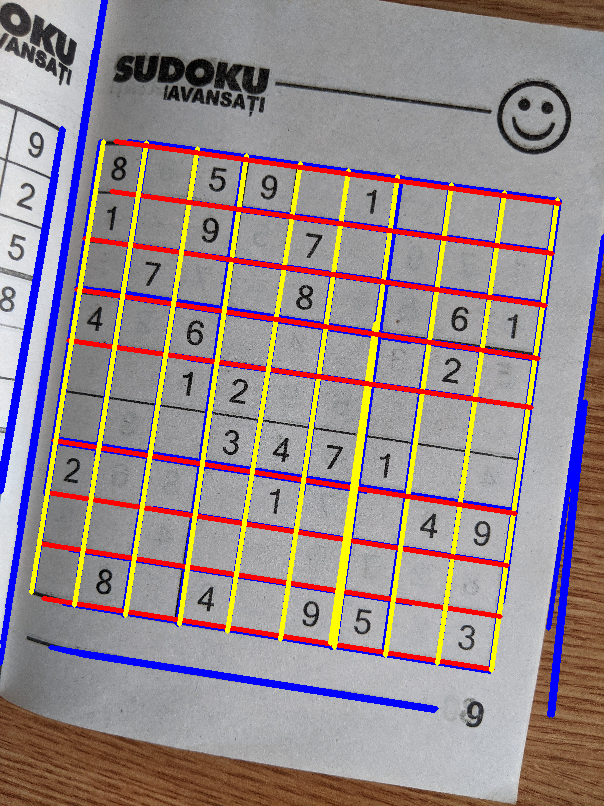
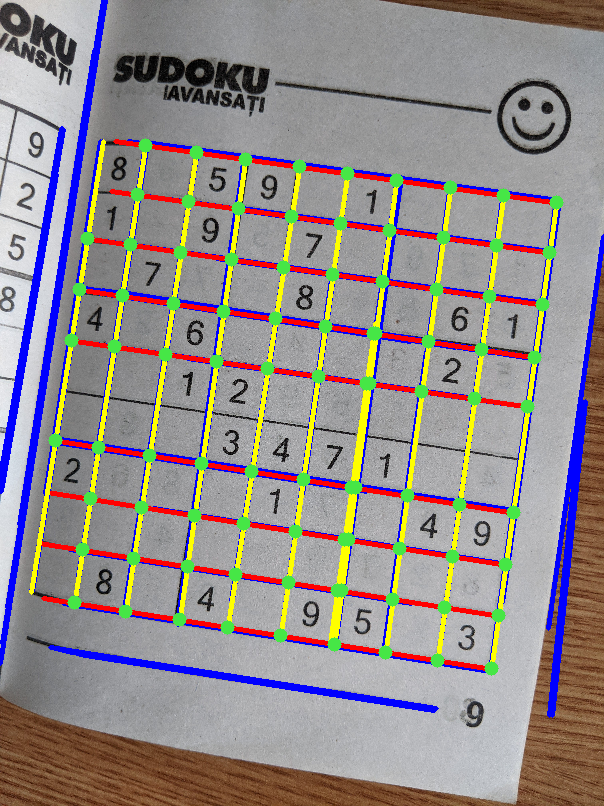
Add intersection points of perpendicular lines

diff --git a/sudoku.py b/sudoku.py
@@ -132,6 +132,7 @@ class Sudoku:
         # Remove lines that are not perpendicular on many other lines
         # Alternatively, remove lines outside the largest connected component
         filtered_lines = []
+        intersection_points = []
         
         for it1, line1 in enumerate(lines):
             intersections = 0
@@ -149,13 +150,19 @@ class Sudoku:
                 # Count intersections with perpendicular lines
                 if np.abs(np.abs(line1[5] - line2[5]) % 180 - 90) < 3:  # theta_deg
                     intersections += 1
+                
+                # Save unique intersection points
+                if it2 > it1:
+                    intersection_points.append(linestring1.intersection(linestring2))
             
             # Keep line if it is perpendicular on many other lines
             if intersections > 3:
                 filtered_lines.append(line1)
 
-        return filtered_lines
-
+        return filtered_lines, intersection_points
+    
+    def determine_corners(self, intersection_points):
+        pass
 
 def main():
     sudoku = Sudoku()
@@ -170,7 +177,7 @@ def main():
     
     lines = sudoku.detect_lines(img)
     merged_lines = sudoku.merge_lines(lines)
-    filtered_lines = sudoku.filter_lines(merged_lines)
+    filtered_lines, intersection_points = sudoku.filter_lines(merged_lines)
     
     print('\n\n\nconverted\n\n')
     for line in filtered_lines:
@@ -187,8 +194,11 @@ def main():
             print('orizontal')
             cv2.line(img, (int(x1), int(y1)), (int(x2), int(y2)), (0, 0, 255), 3)
 
-    cv2.imshow('sudoku_filtered', img)
-    cv2.imwrite('sudoku_filtered.png', img)
+    for point in intersection_points:
+        cv2.circle(img, (int(point.x), int(point.y)), radius=7, color=(70, 230, 70), thickness=-7)
+
+    cv2.imshow('sudoku_filtered_dots', img)
+    cv2.imwrite('sudoku_filtered_dots.png', img)
     cv2.waitKey(0)
 
 
